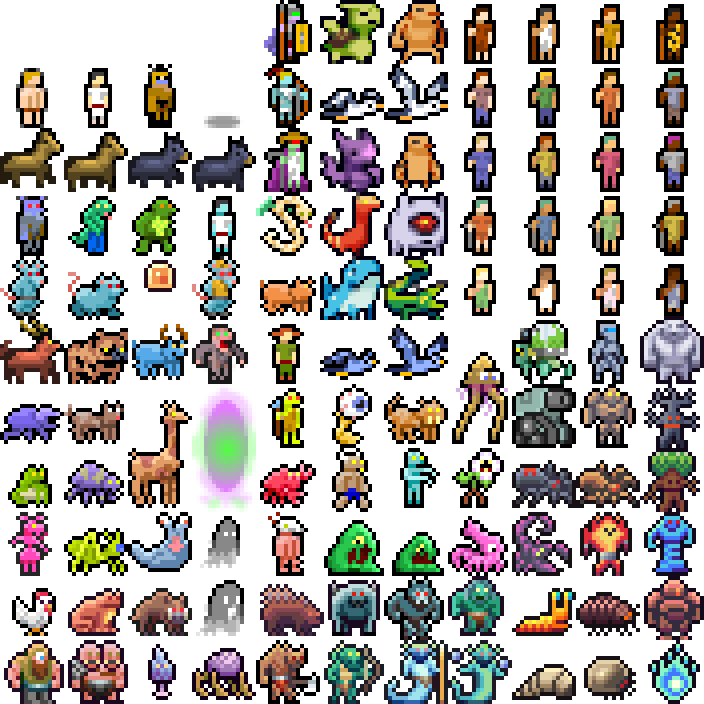
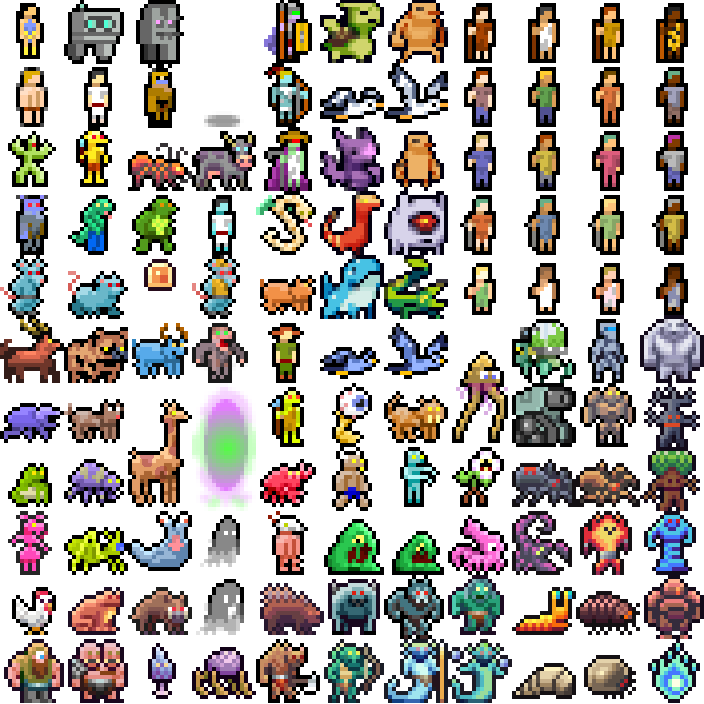
a few more monster sprites

diff --git a/src/main/kotlin/render/tilesets/MobTileSet.kt b/src/main/kotlin/render/tilesets/MobTileSet.kt
@@ -10,17 +10,14 @@ fun ActorTileSet() =
         setTile(Glyph.MOB_WATER_SHADOW, SimpleTile(this, 3, 0))
 
         setTile(Glyph.PLAYER, SimpleTile(this, 0, 1))
+        setTile(Glyph.ARIEL, SimpleTile(this, 0, 0))
         setTile(Glyph.MOK, SimpleTile(this, 2, 1))
-        setTile(Glyph.HORSE, AnimatedTile(this).apply {
-            frameMs = 300
-            add(0, 2)
-            add(1, 2)
-        })
-        setTile(Glyph.CATTLE, AnimatedTile(this).apply {
-            frameMs = 450
-            add(2, 2)
-            add(3, 2)
-        })
+        setTile(Glyph.CATTLE, SimpleTile(this, 2, 3))
+        setTile(Glyph.CACTOID, SimpleTile(this, 0, 2))
+        setTile(Glyph.HYENAMAN, SimpleTile(this, 1, 2))
+        setTile(Glyph.GIANT_ANT, SimpleTile(this, 2, 2))
+        setTile(Glyph.DROID_1, SimpleTile(this, 1, 0))
+        setTile(Glyph.DROID_2, SimpleTile(this, 2, 0))
         setTile(Glyph.WOLFMAN, SimpleTile(this, 0, 3))
         setTile(Glyph.SNAKEMAN, SimpleTile(this, 1, 3))
         setTile(Glyph.KARROK, SimpleTile(this, 2, 3))

diff --git a/src/main/kotlin/render/tilesets/Glyph.kt b/src/main/kotlin/render/tilesets/Glyph.kt
@@ -106,10 +106,15 @@ enum class Glyph(val tall: Boolean = false) {
     PEASANT_BLACK_RED,
     PEASANT_BLACK_BLOND,
     PEASANT_BLACK_CHILD,
+    ARIEL,
     MOK,
-    HORSE,
     CATTLE,
     HERDER,
+    CACTOID,
+    HYENAMAN,
+    GIANT_ANT,
+    DROID_1,
+    DROID_2,
     WOLFMAN,
     MOB_SHADOW,
     MOB_WATER_SHADOW,
